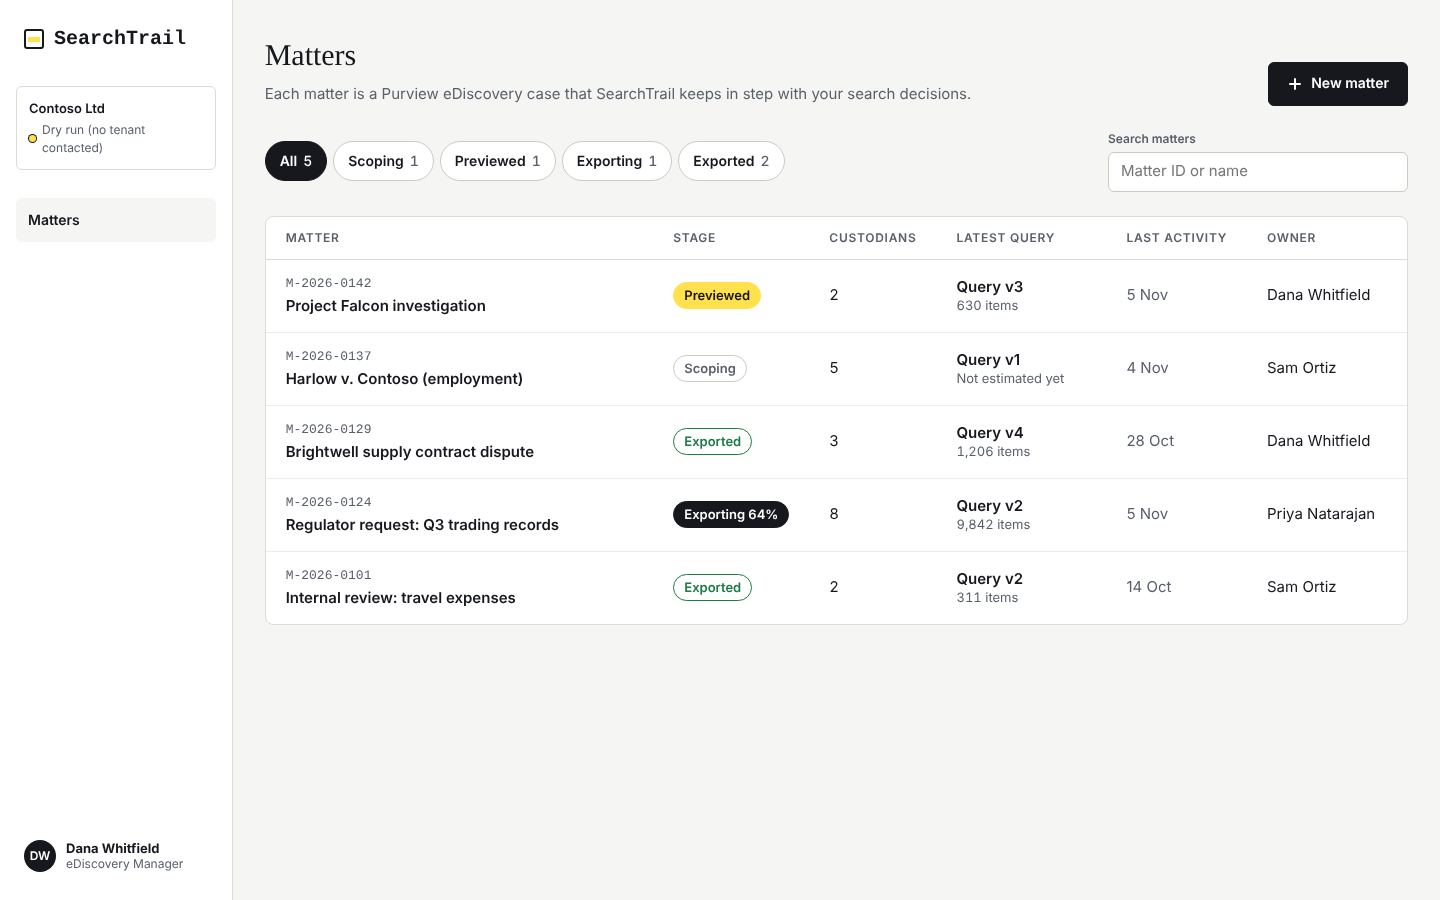
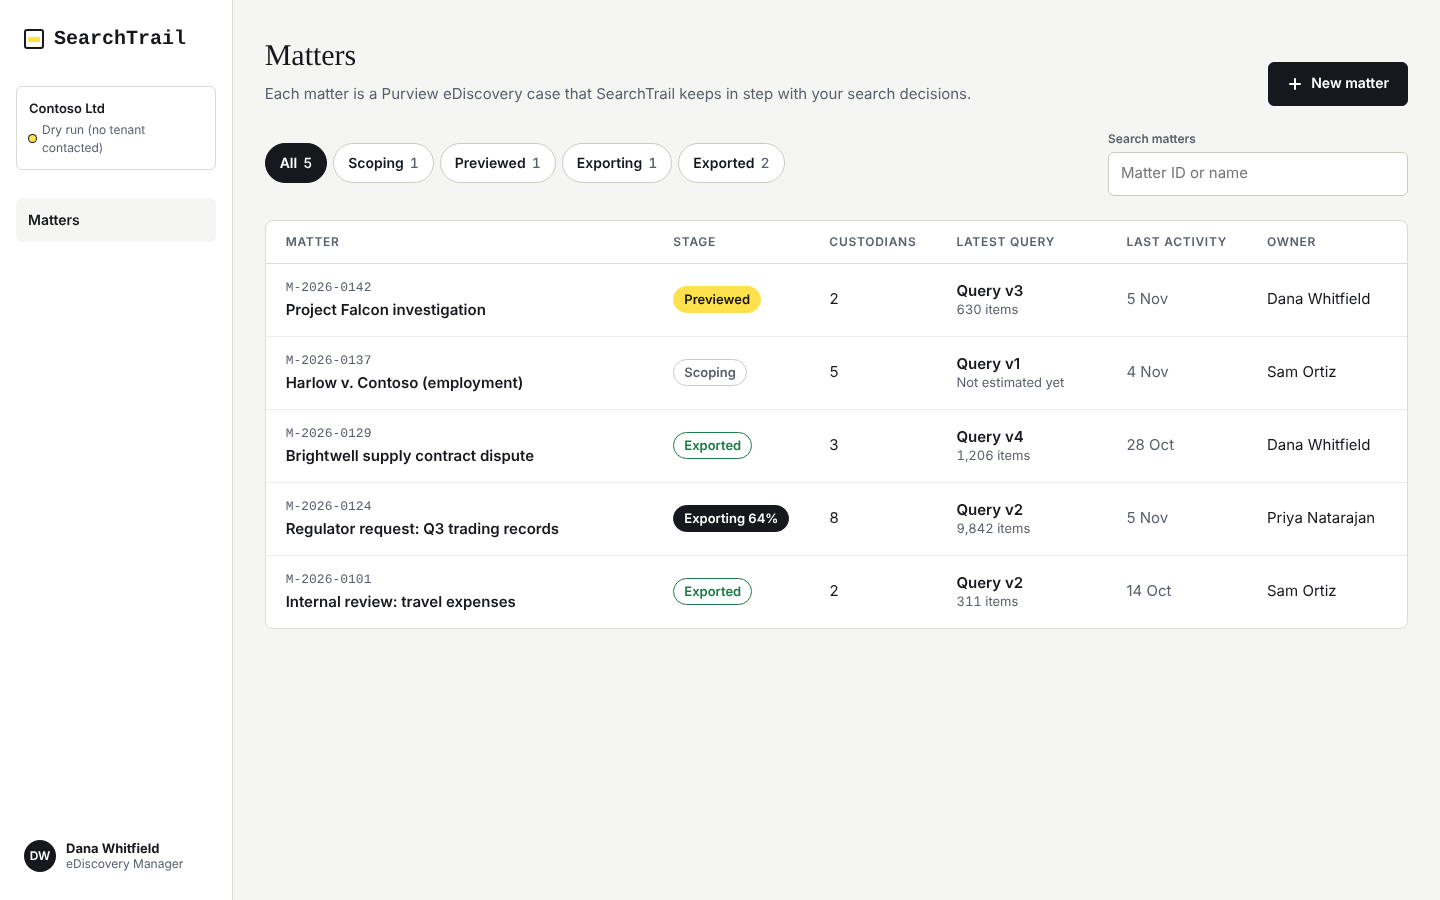
[E] Matters: fix review findings
- The unfiltered list polls while a matter exports; when it changes, the
  filtered lists are read again, so a stage chip or search no longer goes stale.
- All chip counts the list's total.
- New matter button drops aria-expanded/aria-controls (it is hidden while the form is open).
- Hidden live region says how many matters show; "Loading matters…" is a status.
- Empty message fits the filter in use.
- Editing a field keeps an API error about another field (such as a number in use).
- FastAPI's own 400 shows the matching entry's msg.
- Search box and form intro use the size tokens.
- Tests remove MSW event listeners after each test; new tests for each fix.

diff --git a/frontend/tests/unit/screens/matters.test.tsx b/frontend/tests/unit/screens/matters.test.tsx
@@ -3,12 +3,16 @@ import userEvent from '@testing-library/user-event';
 import { http, HttpResponse } from 'msw';
 import { db } from '@/mocks/db';
 import { server } from '@/mocks/server';
-import { activityText } from '@/screens/matters/format';
+import { summaryOf } from '@/mocks/views';
+import { activityText, emptyText } from '@/screens/matters/format';
 import { EXPORTING_REFRESH_MS } from '@/screens/matters/hooks';
-import { fieldOfError, toBody, validate } from '@/screens/matters/newMatter';
+import { apiFieldError, fieldOfError, toBody, validate } from '@/screens/matters/newMatter';
 import { ApiRequestError } from '@/api/client';
 import { expectNoA11yViolations } from '../a11y';
 import { renderApp } from '../renderApp';
+
+// Listeners added with server.events.on would otherwise pile up from test to test.
+afterEach(() => server.events.removeAllListeners());
 
 /** The query string of every GET /matters the screen makes. */
 function watchListRequests() {
@@ -99,6 +103,46 @@ test('the search and the stage filter combine, and say so when nothing matches',
   expect(await screen.findByText('Project Falcon investigation')).toBeInTheDocument();
 });
 
+test('a search with no stage chosen that matches nothing says to clear the search', async () => {
+  renderApp('/matters');
+  await screen.findByRole('table', { name: 'Matters' });
+  await userEvent.type(screen.getByRole('searchbox', { name: 'Search matters' }), 'no such matter');
+  expect(await screen.findByText('No matters match. Clear the search.')).toBeInTheDocument();
+  expect(await screen.findByRole('status')).toHaveTextContent('0 matters shown.');
+});
+
+test('the empty table says how to undo whatever hides the matters', () => {
+  expect(emptyText(undefined, undefined)).toBe('No matters yet. Choose New matter to create the first one.');
+  expect(emptyText('exported', undefined)).toBe('No matters match. Choose All.');
+  expect(emptyText(undefined, 'x')).toBe('No matters match. Clear the search.');
+  expect(emptyText('exported', 'x')).toBe('No matters match. Clear the search or choose All.');
+});
+
+test('screen readers hear how many matters show once a filter settles, and that the list is loading', async () => {
+  renderApp('/matters');
+  expect(screen.getByText('Loading matters…')).toHaveAttribute('role', 'status');
+  await screen.findByRole('table', { name: 'Matters' });
+  const status = () => screen.getByText(/matters? shown\.$/);
+  await waitFor(() => expect(status()).toHaveTextContent('5 matters shown.'));
+  expect(status()).toHaveAttribute('role', 'status');
+  expect(status()).toHaveClass('st-visually-hidden');
+
+  await userEvent.click(chip(/^Exported/));
+  await waitFor(() => expect(status()).toHaveTextContent('2 matters shown.'));
+  await userEvent.click(chip(/^Previewed/));
+  await waitFor(() => expect(status()).toHaveTextContent('1 matter shown.'));
+});
+
+test('the All chip counts every matter the API says there are', async () => {
+  server.use(
+    http.get('/api/v1/matters', () =>
+      HttpResponse.json({ items: db.matters.slice(0, 2).map(summaryOf), total: 12 }),
+    ),
+  );
+  renderApp('/matters');
+  expect(await screen.findByRole('button', { name: 'All 12' })).toBeInTheDocument();
+});
+
 test('with no matters at all, the list says how to make the first one', async () => {
   server.use(http.get('/api/v1/matters', () => HttpResponse.json({ items: [], total: 0 })));
   renderApp('/matters');
@@ -117,6 +161,46 @@ test('a matter that is exporting is read again, so its percentage moves', async 
       await vi.advanceTimersByTimeAsync(EXPORTING_REFRESH_MS + 100);
     });
     expect(await screen.findByText('Exporting 81%')).toBeInTheDocument();
+  } finally {
+    vi.useRealTimers();
+  }
+});
+
+test('with the Exported chip chosen, a matter that finishes exporting joins the table', async () => {
+  vi.useFakeTimers({ shouldAdvanceTime: true });
+  try {
+    renderApp('/matters');
+    await screen.findByText('Exporting 64%');
+    await userEvent.click(chip(/^Exported/));
+    await waitFor(() => expect(rowsOf(screen.getByRole('table', { name: 'Matters' }))).toHaveLength(2));
+
+    // The export finishes while the person looks at Exported, whose own rows have nothing exporting.
+    const exporting = db.matters.find((m) => m.matter.stage === 'exporting')!;
+    exporting.matter.stage = 'exported';
+    await act(async () => {
+      await vi.advanceTimersByTimeAsync(EXPORTING_REFRESH_MS + 100);
+    });
+    await waitFor(() => expect(rowsOf(screen.getByRole('table', { name: 'Matters' }))).toHaveLength(3));
+    expect(screen.getByRole('link', { name: exporting.matter.name })).toBeInTheDocument();
+    expect(chip(/^Exported/)).toHaveAccessibleName('Exported 3');
+    expect(chip(/^Exporting/)).toHaveAccessibleName('Exporting 0');
+  } finally {
+    vi.useRealTimers();
+  }
+});
+
+test('with the Exporting chip chosen, the percentage still moves', async () => {
+  vi.useFakeTimers({ shouldAdvanceTime: true });
+  try {
+    renderApp('/matters');
+    await screen.findByRole('button', { name: 'All 5' });
+    await userEvent.click(chip(/^Exporting/));
+    await waitFor(() => expect(rowsOf(screen.getByRole('table', { name: 'Matters' }))).toHaveLength(1));
+    db.matters.find((m) => m.matter.stage === 'exporting')!.exports[0]!.progress = 0.9;
+    await act(async () => {
+      await vi.advanceTimersByTimeAsync(EXPORTING_REFRESH_MS + 100);
+    });
+    expect(await screen.findByText('Exporting 90%')).toBeInTheDocument();
   } finally {
     vi.useRealTimers();
   }
@@ -213,6 +297,11 @@ test('a matter number already in use is shown under the field', async () => {
   expect(number).toHaveFocus();
   expect(router.state.location.pathname).toBe('/matters');
 
+  // Fixing the name leaves the message about the number in place.
+  await userEvent.type(within(form).getByRole('textbox', { name: 'Name' }), ' 2');
+  expect(within(form).getByText('A matter with number M-2026-0142 already exists.')).toBeInTheDocument();
+  expect(number).toHaveAttribute('aria-invalid', 'true');
+
   // Changing the number takes the message away, and the next try goes through.
   await userEvent.type(number, '-B');
   expect(within(form).queryByText(/already exists/)).not.toBeInTheDocument();
@@ -235,7 +324,9 @@ test("the API's own validation errors go under the field they name", async () =>
   const name = within(form).getByRole('textbox', { name: 'Name' });
   await userEvent.type(name, 'Something');
   await userEvent.click(within(form).getByRole('button', { name: 'Create matter' }));
-  expect(await within(form).findByText('The request is not valid.')).toBeInTheDocument();
+  // FastAPI's own reason for the field, not the envelope's general message.
+  expect(await within(form).findByText('too long')).toBeInTheDocument();
+  expect(within(form).queryByText('The request is not valid.')).not.toBeInTheDocument();
   expect(name).toHaveAttribute('aria-invalid', 'true');
 });
 
@@ -258,6 +349,10 @@ test('any other failure is explained in the form, which keeps what was typed', a
 
 test('Cancel closes the form and puts focus back on New matter', async () => {
   renderApp('/matters');
+  // The button is gone while the form is open, so it claims no expanded state or control.
+  const button = await screen.findByRole('button', { name: 'New matter' });
+  expect(button).not.toHaveAttribute('aria-expanded');
+  expect(button).not.toHaveAttribute('aria-controls');
   const form = await openForm();
   await userEvent.type(within(form).getByRole('textbox', { name: 'Name' }), 'Half typed');
   await userEvent.click(within(form).getByRole('button', { name: 'Cancel' }));
@@ -294,6 +389,14 @@ test('an API error is matched to its field from the mocks or from FastAPI', () =
   expect(fieldOfError(err('validation_failed', { field: 'body' }))).toBeUndefined();
   expect(fieldOfError(err('internal_error', { field: 'name' }))).toBeUndefined();
   expect(fieldOfError(new Error('x'))).toBeUndefined();
+
+  // The message: FastAPI's entry's own msg where it has one, else the envelope's message.
+  expect(apiFieldError(err('validation_failed', { errors: [{ loc: ['body', 'name'], msg: 'String should have at most 200 characters' }] }))).toEqual({
+    field: 'name',
+    message: 'String should have at most 200 characters',
+  });
+  expect(apiFieldError(err('validation_failed', { errors: [{ loc: ['body', 'name'] }] }))).toEqual({ field: 'name', message: 'x' });
+  expect(apiFieldError(err('validation_failed', { field: 'name' }))).toEqual({ field: 'name', message: 'x' });
 });
 
 test('activity dates read like the design', () => {

diff --git a/frontend/src/screens/matters/hooks.ts b/frontend/src/screens/matters/hooks.ts
@@ -1,6 +1,6 @@
 // Data for the Matters list and the New matter form. Kept here, not in src/api/, because only this screen uses them.
 import { keepPreviousData, useMutation, useQuery, useQueryClient } from '@tanstack/react-query';
-import { useEffect, useState } from 'react';
+import { useEffect, useRef, useState } from 'react';
 import { api, unwrap, type Schemas } from '@/api/client';
 import { queryKeys } from '@/api/queries';
 
@@ -13,26 +13,54 @@ export const EXPORTING_REFRESH_MS = 5_000;
 // With no stage and no search this is the same key as useMatters() in src/api/queries.ts.
 const listKey = ({ stage, q }: MatterListQuery) => ['matters', { stage, q }] as const;
 
+/** A list read with a stage or a search, as opposed to the unfiltered list (or a matter, under ['matters', id]). */
+function isFilteredListKey(key: readonly unknown[]): boolean {
+  const [root, query] = key;
+  if (root !== 'matters' || key.length !== 2 || typeof query !== 'object' || query === null) return false;
+  const { stage, q } = query as MatterListQuery;
+  return Boolean(stage || q);
+}
+
 /**
  * The matters for a stage and a search (`q` matches the matter number and name, on the server). The rows of the
  * previous filter stay on screen while the next one loads, so the table doesn't flicker as the person types.
+ *
+ * Only the unfiltered list is read again while a matter is exporting, because only it is sure to hold every
+ * exporting matter (a filtered one may not, such as Exported while another matter finishes). When it changes,
+ * useStageCounts refreshes the filtered lists, so the table on screen follows it whatever the filter.
  */
 export function useMatterList(query: MatterListQuery) {
+  const filtered = Boolean(query.stage || query.q);
   return useQuery({
     queryKey: listKey(query),
     queryFn: async () => unwrap(await api.GET('/matters', { params: { query } })),
     placeholderData: keepPreviousData,
-    refetchInterval: (q) => (q.state.data?.items.some((m) => m.stage === 'exporting') ? EXPORTING_REFRESH_MS : false),
+    refetchInterval: (q) => (!filtered && q.state.data?.items.some((m) => m.stage === 'exporting') ? EXPORTING_REFRESH_MS : false),
   });
 }
 
-/** How many matters are in each stage, and in all, from the unfiltered list (the chips' counts ignore the search, as in the design). */
+/**
+ * How many matters are in each stage, and in all, from the unfiltered list (the chips' counts ignore the search, as in
+ * the design). Whenever that list comes back different (an export moved on or finished), the filtered lists are read
+ * again too, so the table and the chips never disagree.
+ */
 export function useStageCounts() {
+  const client = useQueryClient();
   const all = useMatterList({});
+  // The same object until the content changes, thanks to React Query's structural sharing.
+  const data = all.isPlaceholderData ? undefined : all.data;
+  const previous = useRef(data);
+  useEffect(() => {
+    if (previous.current && data && previous.current !== data) {
+      void client.invalidateQueries({ predicate: (query) => isFilteredListKey(query.queryKey) });
+    }
+    previous.current = data;
+  }, [client, data]);
+
   if (!all.data) return undefined;
   const counts: Record<Schemas['MatterStage'], number> = { scoping: 0, previewed: 0, exporting: 0, exported: 0 };
   for (const m of all.data.items) counts[m.stage] += 1;
-  return { all: all.data.items.length, ...counts };
+  return { all: all.data.total, ...counts };
 }
 
 /** POST /matters. On success the new matter is put in the cache (its Define tab opens without waiting) and the lists are refreshed. */

diff --git a/frontend/src/screens/matters/MattersScreen.tsx b/frontend/src/screens/matters/MattersScreen.tsx
@@ -3,7 +3,7 @@ import { useEffect, useId, useRef, useState } from 'react';
 import { Link } from 'react-router';
 import type { Schemas } from '@/api/client';
 import { Button, type Column, DataTable, ErrorNotice, FilterChip, Pill, type PillTone } from '@/components';
-import { activityText, itemsText, STAGE_LABELS, stageText } from './format';
+import { activityText, emptyText, itemsText, STAGE_LABELS, stageText } from './format';
 import { useDebouncedValue, useMatterList, useStageCounts } from './hooks';
 import { NewMatterForm } from './NewMatterForm';
 import styles from './MattersScreen.module.css';
@@ -53,6 +53,8 @@ function PlusIcon() {
   );
 }
 
+const shownText = (n: number) => (n === 1 ? '1 matter shown.' : `${n} matters shown.`);
+
 export function MattersScreen() {
   const [stage, setStage] = useState<Stage | undefined>();
   const [search, setSearch] = useState('');
@@ -72,8 +74,9 @@ export function MattersScreen() {
     wasCreating.current = creating;
   }, [creating]);
 
-  const emptyMessage =
-    !stage && !q ? 'No matters yet. Choose New matter to create the first one.' : 'No matters match. Clear the search or choose All.';
+  const emptyMessage = emptyText(stage, q);
+  // Said by screen readers once a filter or search has settled (not while the previous rows are still shown).
+  const shown = matters.data && !matters.isPlaceholderData ? shownText(matters.data.items.length) : '';
 
   return (
     <div className={styles.page}>
@@ -84,7 +87,7 @@ export function MattersScreen() {
         </div>
         {!creating && (
           <div ref={headerActions}>
-            <Button variant="primary" icon={<PlusIcon />} aria-expanded={false} aria-controls={formId} onClick={() => setCreating(true)}>
+            <Button variant="primary" icon={<PlusIcon />} onClick={() => setCreating(true)}>
               New matter
             </Button>
           </div>
@@ -115,7 +118,14 @@ export function MattersScreen() {
         </div>
       </div>
 
-      {matters.isPending && <p className={styles.muted}>Loading matters…</p>}
+      <p role="status" className="st-visually-hidden">
+        {shown}
+      </p>
+      {matters.isPending && (
+        <p role="status" className={styles.muted}>
+          Loading matters…
+        </p>
+      )}
       {matters.isError && <ErrorNotice error={matters.error} onRetry={() => void matters.refetch()} />}
       {matters.data && (
         <div aria-busy={matters.isPlaceholderData}>

diff --git a/frontend/src/screens/matters/newMatter.ts b/frontend/src/screens/matters/newMatter.ts
@@ -42,22 +42,28 @@ export function validate(body: Schemas['MatterCreate']): FieldErrors {
 }
 
 /**
- * The field an API error is about, so its message can sit under that field: a duplicate number (409 conflict),
- * or a validation error naming the field (the mocks say `details.field`; FastAPI's own check gives
- * `details.errors[].loc`, such as ["body", "matter_number"]).
+ * The field an API error is about, and what to say under it: a duplicate number (409 conflict), or a validation
+ * error naming the field. The mocks say `details.field` and put the reason in the message; FastAPI's own check
+ * gives `details.errors[]`, each with a `loc` such as ["body", "matter_number"] and its own `msg`, while the
+ * envelope's message only says the request is not valid, so the matching entry's `msg` is used.
  */
-export function fieldOfError(error: unknown): MatterField | undefined {
+export function apiFieldError(error: unknown): { field: MatterField; message: string } | undefined {
   if (!(error instanceof ApiRequestError)) return undefined;
-  const { code, details } = error.body;
-  if (code === 'conflict') return 'matter_number';
+  const { code, details, message } = error.body;
+  if (code === 'conflict') return { field: 'matter_number', message };
   if (code !== 'validation_failed') return undefined;
   const isField = (value: unknown): value is MatterField => typeof value === 'string' && (FIELDS as string[]).includes(value);
-  if (isField(details.field)) return details.field;
+  if (isField(details.field)) return { field: details.field, message };
   if (Array.isArray(details.errors)) {
-    for (const entry of details.errors as { loc?: unknown }[]) {
+    for (const entry of details.errors as { loc?: unknown; msg?: unknown }[]) {
       const field = Array.isArray(entry?.loc) ? entry.loc.find(isField) : undefined;
-      if (field) return field;
+      if (field) return { field, message: typeof entry.msg === 'string' && entry.msg.trim() ? entry.msg : message };
     }
   }
   return undefined;
+}
+
+/** The field an API error is about, if any (see apiFieldError). */
+export function fieldOfError(error: unknown): MatterField | undefined {
+  return apiFieldError(error)?.field;
 }

diff --git a/frontend/src/screens/matters/NewMatterForm.tsx b/frontend/src/screens/matters/NewMatterForm.tsx
@@ -4,7 +4,7 @@ import { useNavigate } from 'react-router';
 import type { Schemas } from '@/api/client';
 import { Button, Card, ErrorNotice, InlineError } from '@/components';
 import { useCreateMatter } from './hooks';
-import { DESCRIPTION_MAX, fieldOfError, type FieldErrors, MATTER_TYPES, type MatterField, NAME_MAX, toBody, validate } from './newMatter';
+import { apiFieldError, DESCRIPTION_MAX, fieldOfError, type FieldErrors, MATTER_TYPES, type MatterField, NAME_MAX, toBody, validate } from './newMatter';
 import styles from './NewMatterForm.module.css';
 
 const EMPTY: Schemas['MatterCreate'] = { matter_number: '', name: '', type: 'investigation', description: '' };
@@ -21,13 +21,16 @@ export function NewMatterForm({ id, onCancel }: { id: string; onCancel: () => vo
   useEffect(() => fields.current.matter_number?.focus(), []);
 
   // An error the API returned for one field shows under it; any other shows above the buttons.
-  const apiField = create.isError ? fieldOfError(create.error) : undefined;
-  const errors: FieldErrors = { ...checked, ...(apiField && { [apiField]: create.error!.message }) };
+  const apiError = create.isError ? apiFieldError(create.error) : undefined;
+  const apiField = apiError?.field;
+  const errors: FieldErrors = { ...checked, ...(apiError && { [apiError.field]: apiError.message }) };
 
+  // Editing a field clears its own error. An API error about another field (a number already in use, while the
+  // person fixes the name) stays until that field changes; one about no field goes with any edit.
   const set = (field: MatterField) => (event: { target: { value: string } }) => {
     setValues((v) => ({ ...v, [field]: event.target.value }));
     setChecked((c) => ({ ...c, [field]: undefined }));
-    if (create.isError) create.reset();
+    if (create.isError && (!apiField || apiField === field)) create.reset();
   };
 
   const submit = (event: FormEvent) => {

diff --git a/frontend/src/screens/matters/format.ts b/frontend/src/screens/matters/format.ts
@@ -26,3 +26,11 @@ export function activityText(iso: string, now: Date = new Date()): string {
   if (days === 1) return `Yesterday ${time}`;
   return d.toLocaleDateString('en-GB', { day: 'numeric', month: 'short' });
 }
+
+/** What the empty table says: how to make the first matter, or how to undo the filter or search that hides them all. */
+export function emptyText(stage: Schemas['MatterStage'] | undefined, q: string | undefined): string {
+  if (stage && q) return 'No matters match. Clear the search or choose All.';
+  if (q) return 'No matters match. Clear the search.';
+  if (stage) return 'No matters match. Choose All.';
+  return 'No matters yet. Choose New matter to create the first one.';
+}

diff --git a/frontend/src/screens/matters/MattersScreen.module.css b/frontend/src/screens/matters/MattersScreen.module.css
@@ -49,7 +49,7 @@
   color: var(--st-muted);
 }
 .searchInput {
-  min-height: 40px;
+  min-height: var(--st-target);
   box-sizing: border-box;
   padding: 0 12px;
   border: 1px solid var(--st-rule-strong);

diff --git a/frontend/src/screens/matters/NewMatterForm.module.css b/frontend/src/screens/matters/NewMatterForm.module.css
@@ -7,7 +7,7 @@
 .intro {
   margin: 0;
   color: var(--st-muted);
-  font-size: 14px;
+  font-size: var(--st-text-sm);
 }
 .row {
   display: grid;
